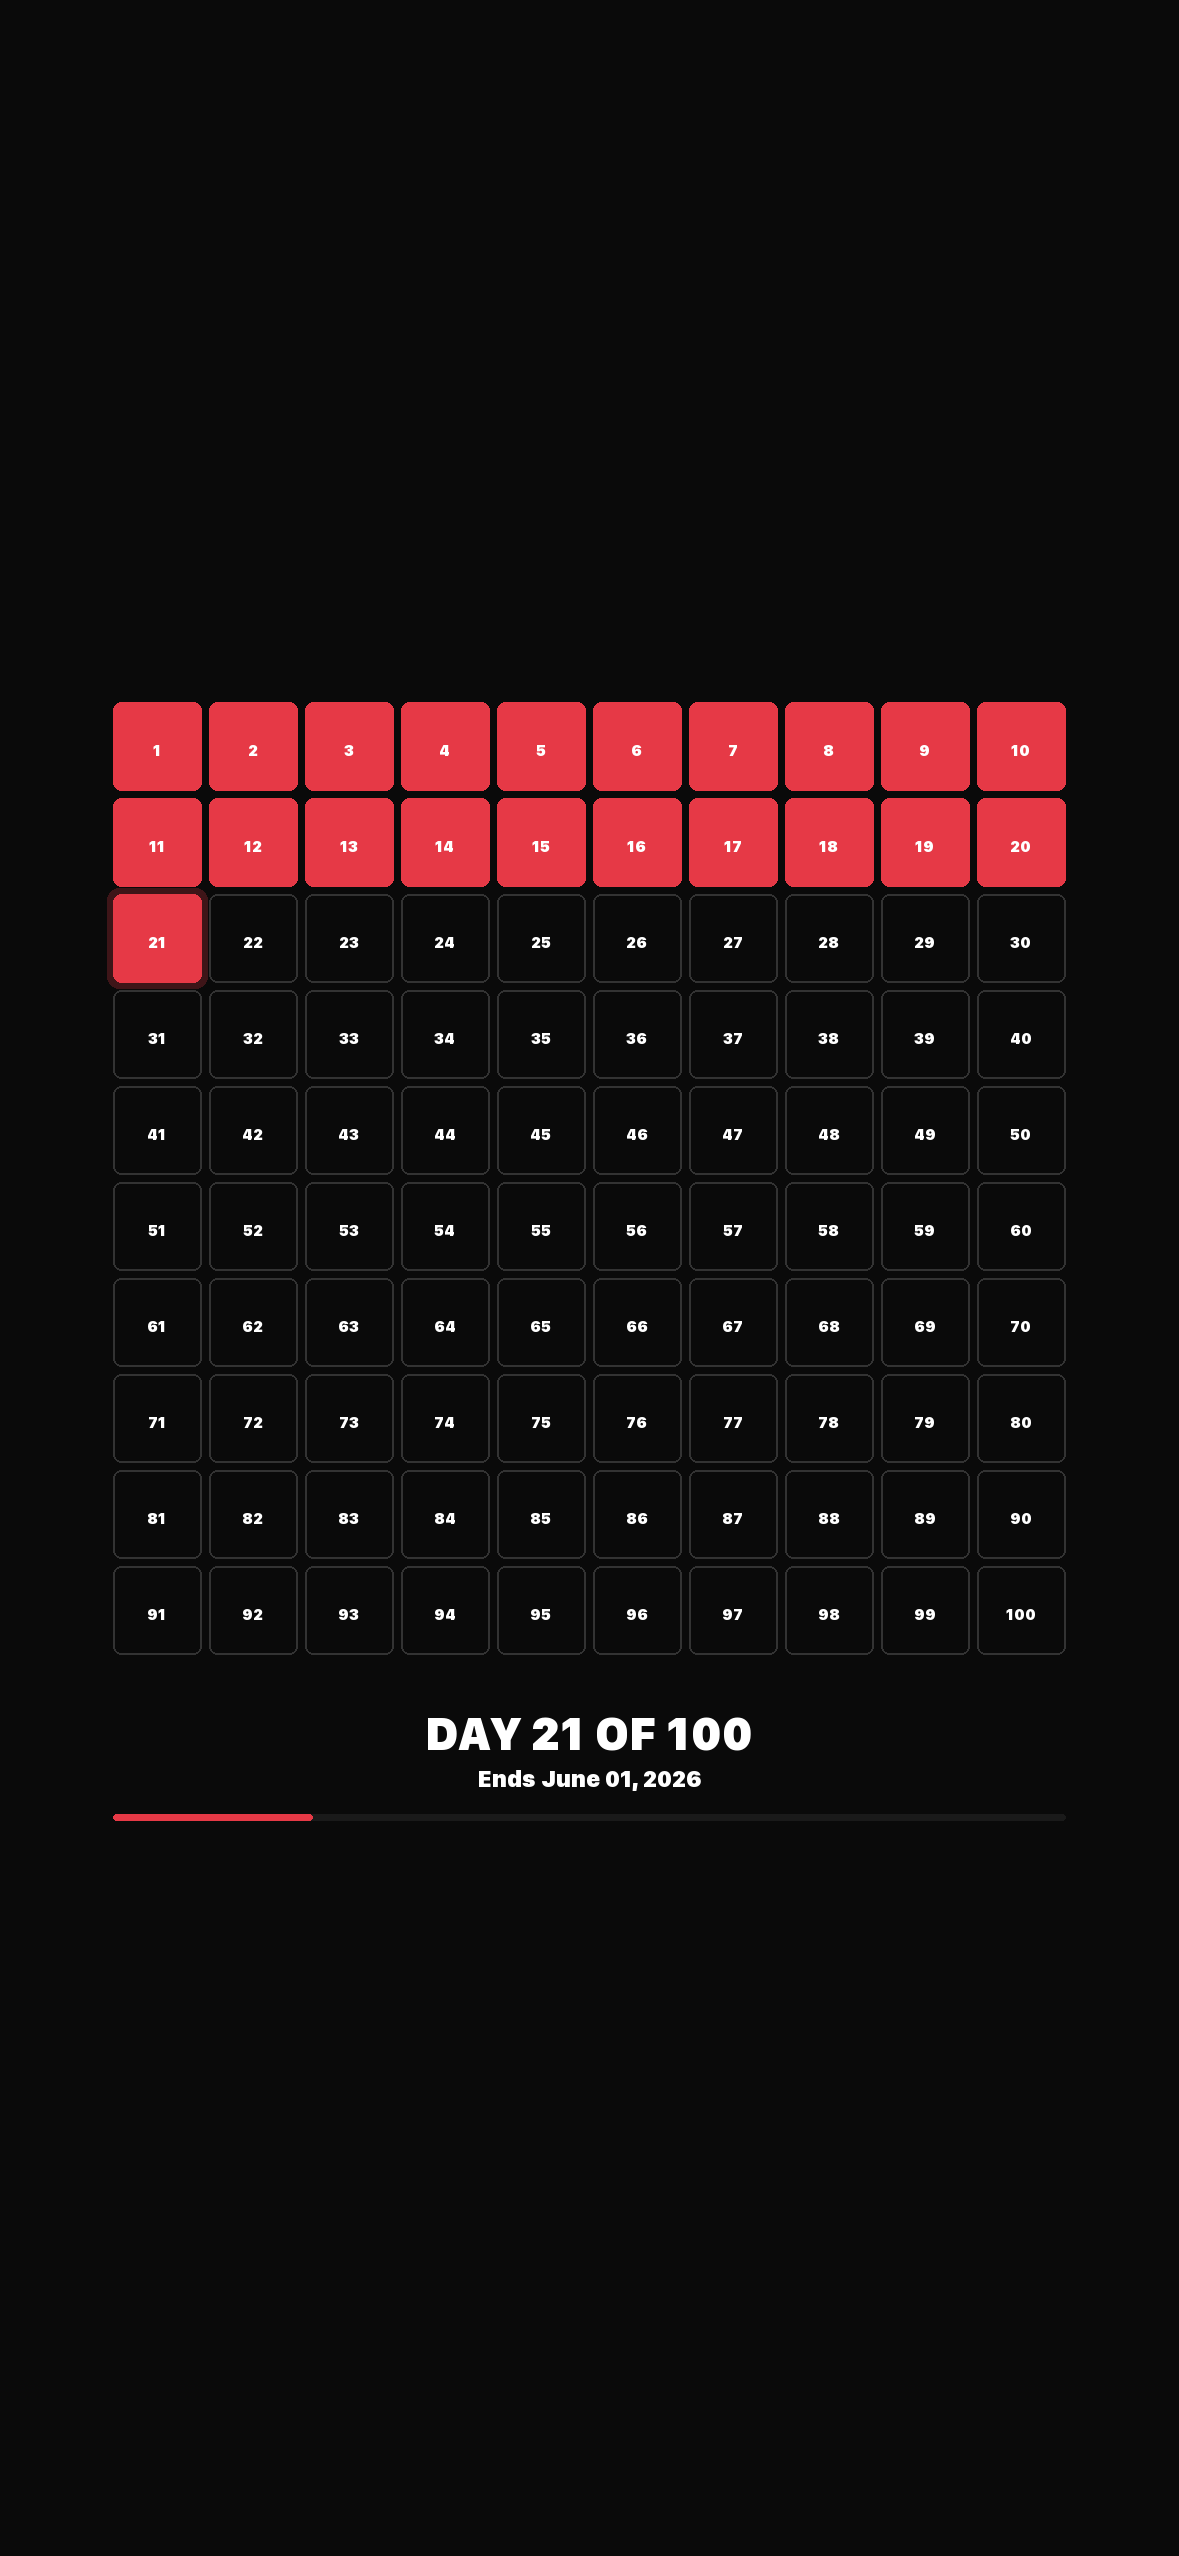
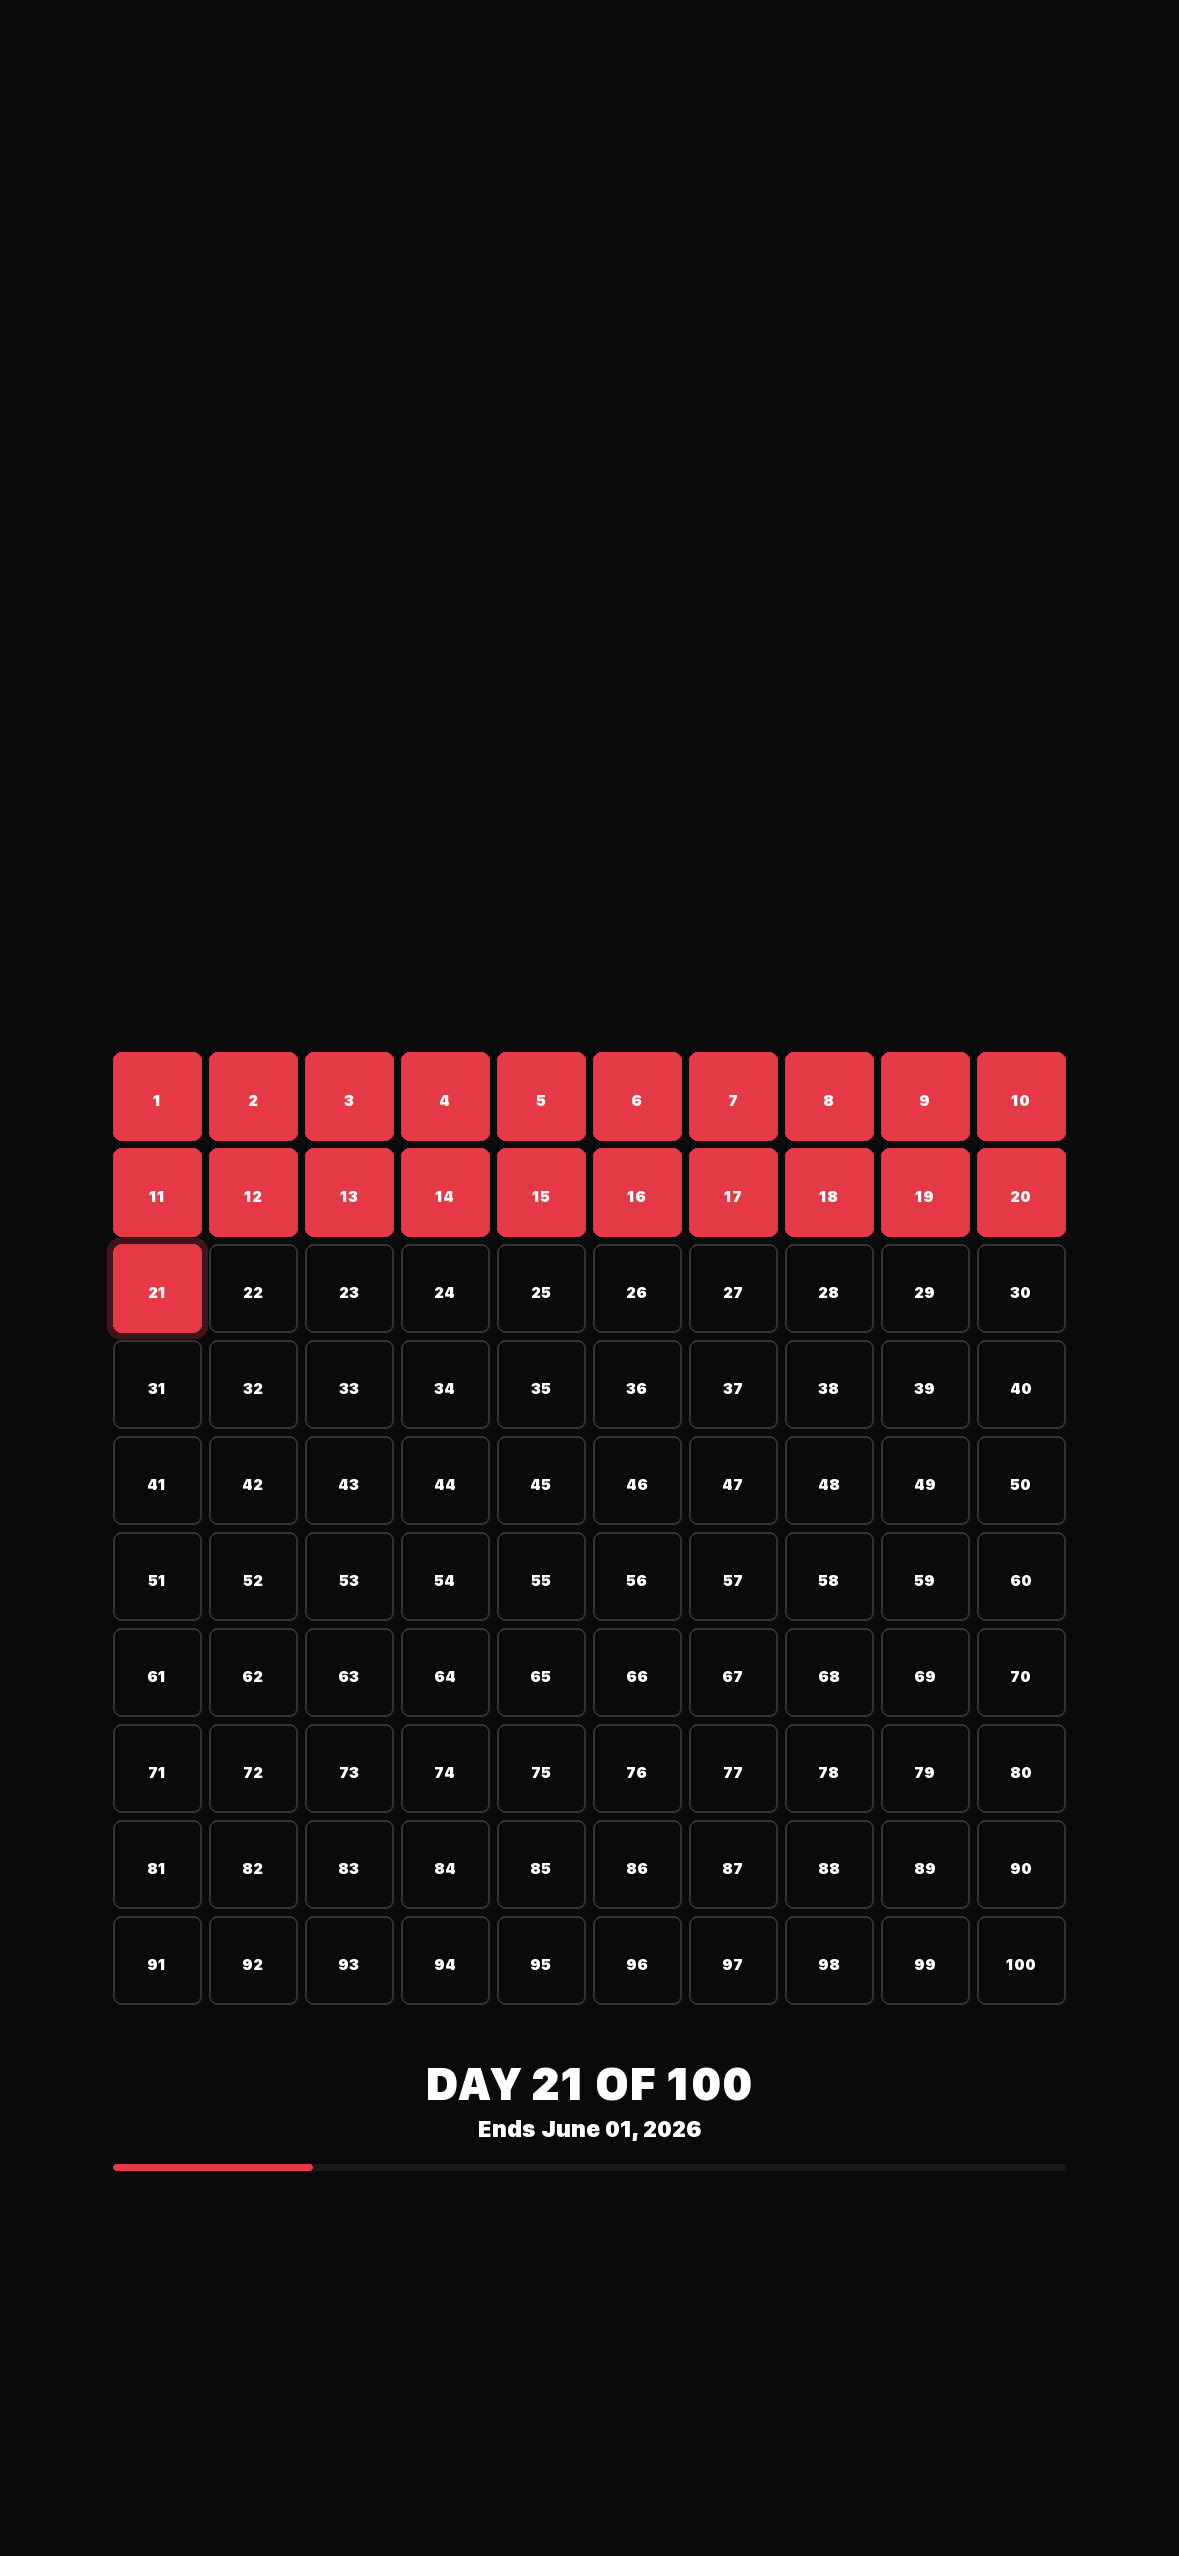
move grid down to avoid lock screen widgets

Changed region(s): [[0.0916, 0.2473, 0.916, 0.7727], [0.3664, 0.8036, 0.6412, 0.8345], [0.855, 0.7418, 0.8855, 0.7727]]

diff --git a/scripts/generate-wallpaper.py b/scripts/generate-wallpaper.py
@@ -41,9 +41,9 @@ def generate_wallpaper(output_path=None):
     grid_width = GRID_SIZE * square_size + (GRID_SIZE - 1) * gap
     grid_height = grid_width  # Square grid
     
-    # Center the grid vertically (slightly above center for aesthetic)
+    # Position grid in lower half to avoid lock screen widgets/clock
     start_x = (WIDTH - grid_width) // 2
-    start_y = (HEIGHT - grid_height) // 2 - 100
+    start_y = (HEIGHT - grid_height) // 2 + 250
     
     # Draw grid
     for i in range(TOTAL_DAYS):
